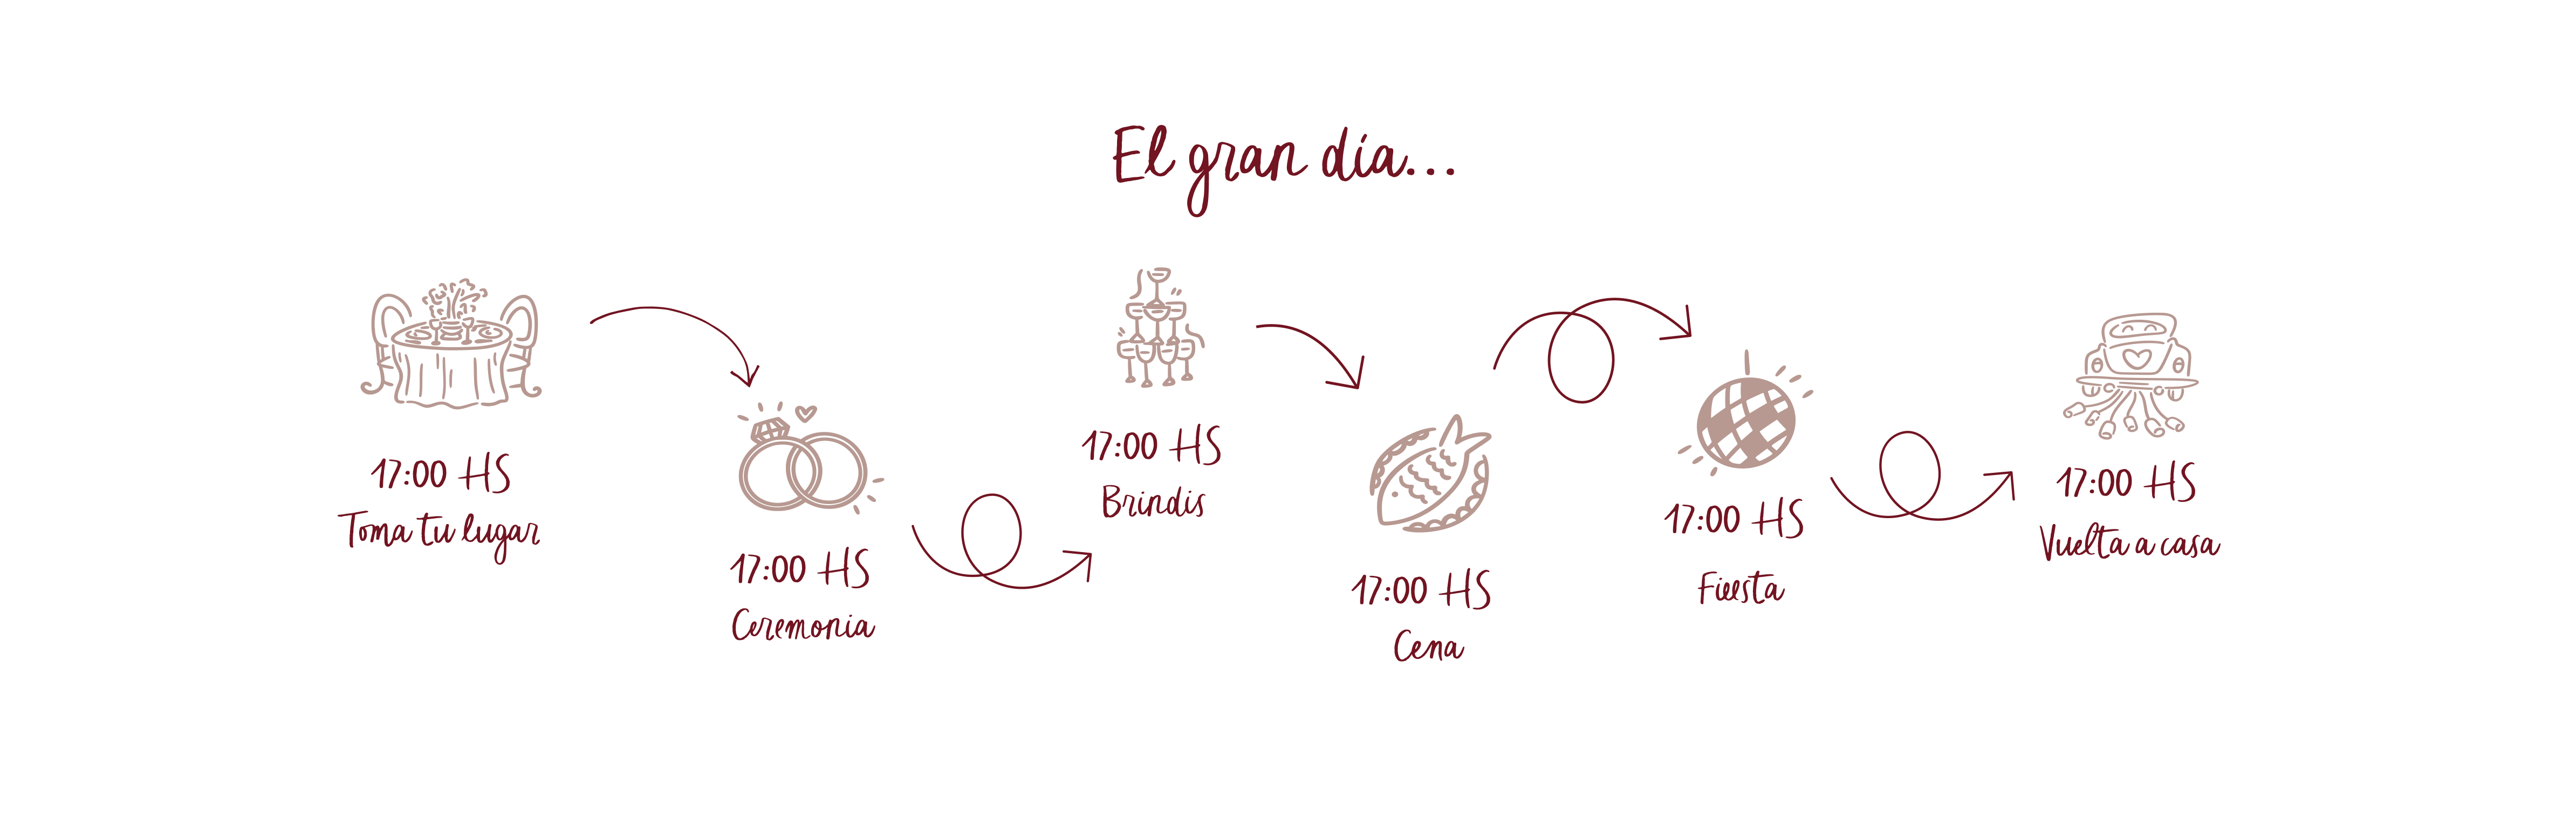
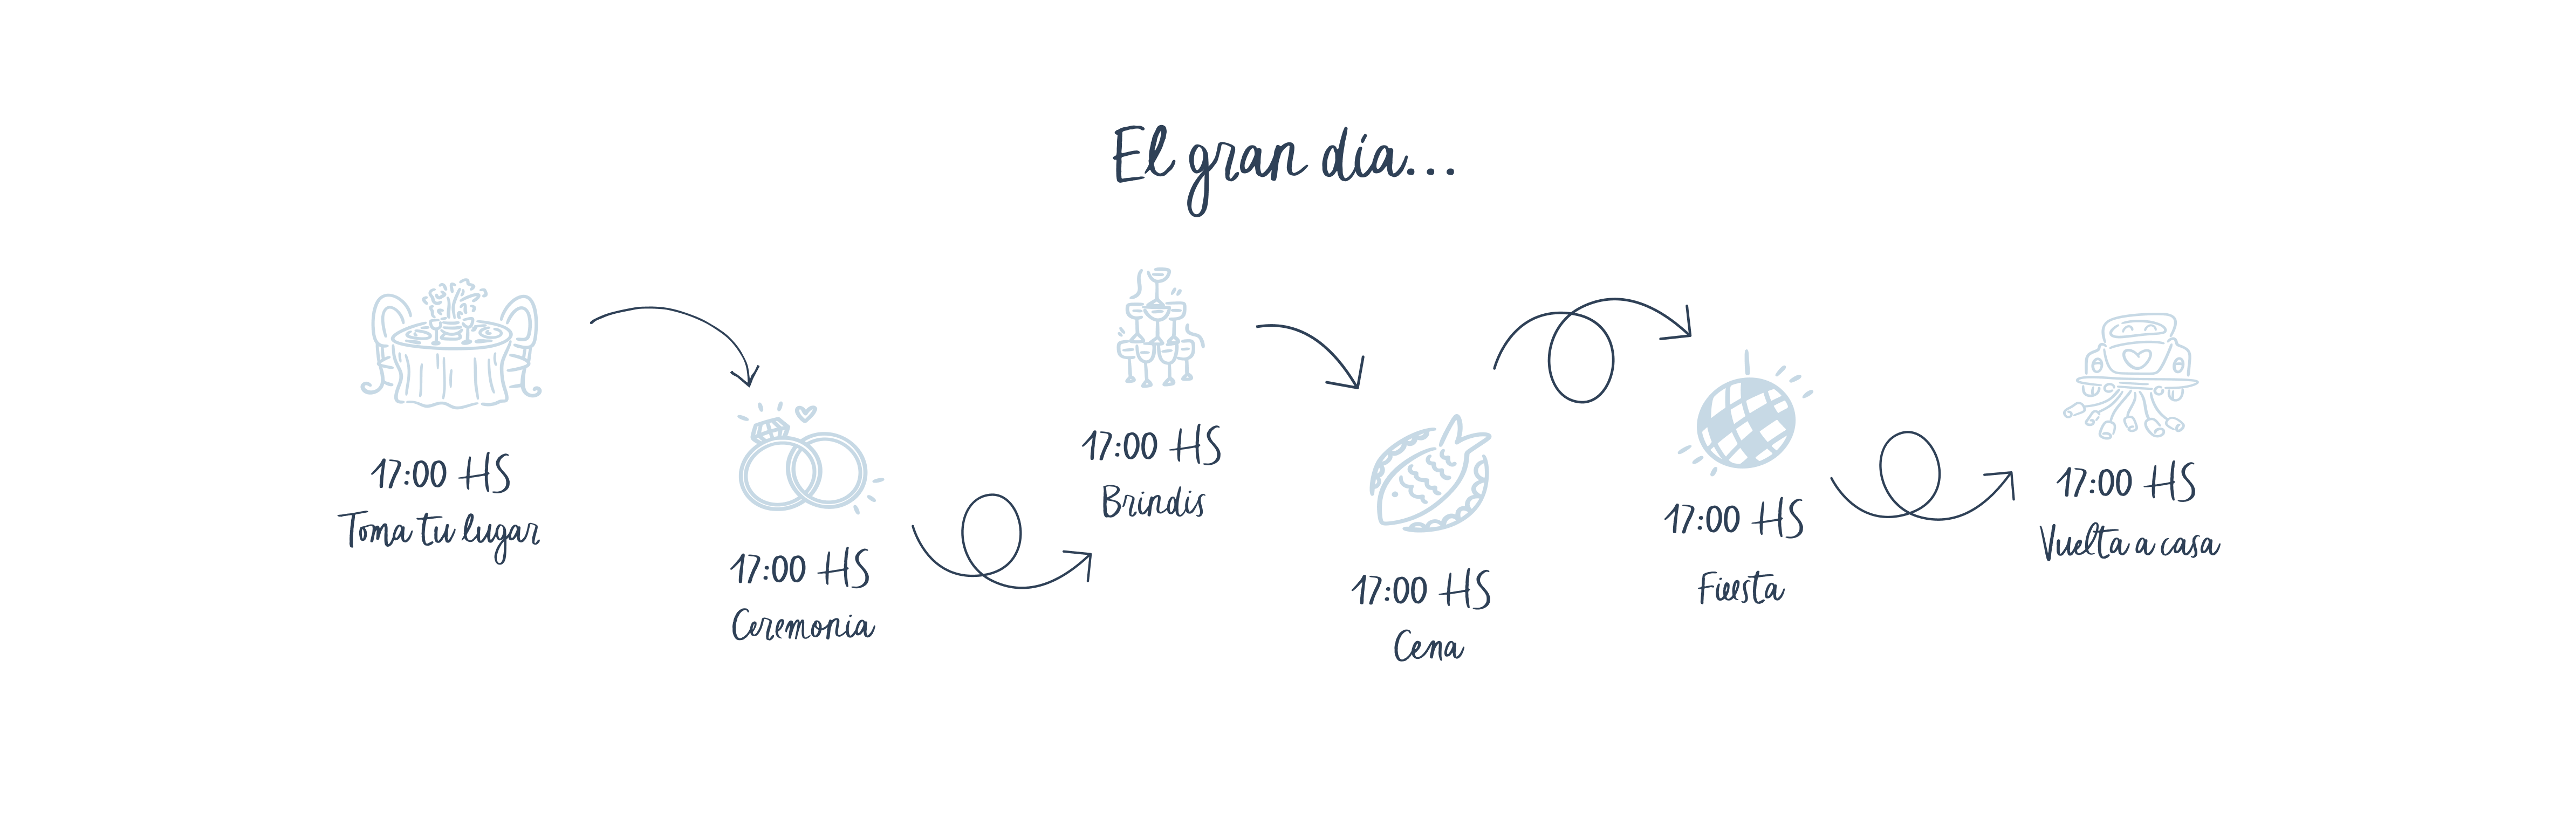
a
a

diff --git a/index.html b/index.html
@@ -60,9 +60,17 @@
     </div>
     <div class="datos">
       <div>
-        <p data-aos="fade-up">17:00 Hs - Santa Lucia, Pilar</p>
+        <p data-aos="fade-up">18:00 Hs - Catedral Nuestra Señora del Nahuel Huapi</p>
         <a data-aos="fade-up" class="boton"
-           href="https://www.google.com/maps/dir//Santa+Luc%C3%ADa+-+Eventos+Corporativos+y+Sociales,+KM+170,+RP6,+B6708+Pilar,+Provincia+de+Buenos+Aires/@-34.4378675,-59.0468113,749m/data=!3m1!1e3!4m17!1m7!3m6!1s0x95bb7e2ff2653dd9:0x802555d9783c01b2!2sSanta+Luc%C3%ADa+-+Eventos+Corporativos+y+Sociales!8m2!3d-34.4378675!4d-59.0468113!16s%2Fg%2F11bwh9wxwz!4m8!1m0!1m5!1m1!1s0x95bb7e2ff2653dd9:0x802555d9783c01b2!2m2!1d-59.0468113!2d-34.4378675!3e0?entry=ttu&g_ep=EgoyMDI2MDcwNi4wIKXMDSoASAFQAw%3D%3D">
+           href="https://www.google.com/maps?rlz=1C5BAPC_enAR1171AR1174&biw=1180&bih=769&sca_esv=acfa3fc4e5e17c13&output=search&q=catedral+de+bariloche&source=lnms&fbs=ABfTbFUDadgeu2mn4mYJ8iEZ1GUDhGSCZm7XyznrPTo9Hy_Q2uz8Xz4EW5JZiKHLKDFwhT6CR5poGF3Q_DFtAjJx_Odzcy2hoQmHqD8fpFq_45kz5VO5cr-_nbAMP2fm4biFdnLTik1fkVea7QPOpSZzp4ha_AD7Xxcp0FPGCVlSCA3AvHojrrD1-H8LAvxIucUH21-PA-KL1Wb1Tafj_yqoERzdDAV94w&entry=mc&ved=1t:200715&ictx=111">
+          Cómo llegar
+        </a>
+      </div>
+      <br><br>
+    <div>
+        <p data-aos="fade-up">20:00 Hs - Catedral Nuestra Señora del Nahuel Huapi</p>
+        <a data-aos="fade-up" class="boton"
+           href="https://www.google.com/maps?rlz=1C5BAPC_enAR1171AR1174&biw=1180&bih=769&sca_esv=acfa3fc4e5e17c13&output=search&q=catedral+de+bariloche&source=lnms&fbs=ABfTbFUDadgeu2mn4mYJ8iEZ1GUDhGSCZm7XyznrPTo9Hy_Q2uz8Xz4EW5JZiKHLKDFwhT6CR5poGF3Q_DFtAjJx_Odzcy2hoQmHqD8fpFq_45kz5VO5cr-_nbAMP2fm4biFdnLTik1fkVea7QPOpSZzp4ha_AD7Xxcp0FPGCVlSCA3AvHojrrD1-H8LAvxIucUH21-PA-KL1Wb1Tafj_yqoERzdDAV94w&entry=mc&ved=1t:200715&ictx=111">
           Cómo llegar
         </a>
       </div>
@@ -111,7 +119,7 @@
             <div class="boton2" onclick="copyToClipboard('aconfirmar')">COPIAR ALIAS</div>
           </div>
         </div>
-        <p>Titular de la cuenta: a confirmar</p>
+        <p>Titular de la cuenta: Lolo Perez/p>
       </div>
     </div>
 
@@ -128,7 +136,7 @@
       <div class="accordion-content">
       
         <p>SI HAY BODA, HAY JODA — Y LA JODA LA MOSTRAMOS EN INSTAGRAM. SEGUINOS PARA NO PERDERTE NADA DE LO QUE PASE ESE DÍA.</p>
-        <br> <a data-aos="fade-up" class="boton2" href="https://www.instagram.com/lauynacho.thewedding/">@lauynacho.thewedding</a>
+        <br> <a data-aos="fade-up" class="boton2" href="https://www.instagram.com/siquiero.arg/">@siquiero.arg</a>
         <br> <br>
     </div>
     </div>
@@ -209,37 +217,39 @@
     <div class="carrusel-slide" data-index="0">
     
       <div class="polaroid">
-        <img src="./img-editable/carrusel1.jpg" alt="">
+        <img src="./img-editable/carrusel1.png" alt="">
       </div>
-      <p>Hotel "Bahia" xxxx</p>
-      <a href="#" target="_blank" class="boton">Ver más</a>
-    </div>
+          <p>Para enamorarte del sur, tenes que conocer Isla Victoria</p>
+      <a href="https://www.google.com/maps/dir//Isla+Victoria,+Neuqu%C3%A9n/@-41.0380096,-71.5823286,11z/data=!4m9!4m8!1m0!1m5!1m1!1s0x9610988ac22f8885:0x5a6dc59459c5c38f!2m2!1d-71.5413889!2d-40.9416667!3e0?entry=ttu&g_ep=EgoyMDI2MDcwOC4wIKXMDSoASAFQAw%3D%3D" target="_blank" class="boton">Ver más</a>
+     </div>
  
     <div class="carrusel-slide" data-index="1">
       
       <div class="polaroid">
-        <img src="./img-editable/carrusel2.jpg" alt="">
+        <img src="./img-editable/carrusel2.png" alt="">
       </div>
-      <p>Nuestro primer viaje juntos.</p>
-      <a href="#" target="_blank" class="boton">Ver más</a>
-    </div>
+          <p>Para desperar con vista al lago, Hotel Tres Reyes</p>
+      <a href="https://www.google.com/maps/dir//Hotel+Tres+Reyes,+Av.+12+de+Octubre+135,+R8400+San+Carlos+de+Bariloche,+R%C3%ADo+Negro/@-41.1349743,-71.314059,15.85z/data=!4m20!1m10!3m9!1s0x961a7b72535761eb:0x644b8fe5b70e380!2sHotel+Tres+Reyes!5m2!4m1!1i2!8m2!3d-41.1327826!4d-71.3077661!16s%2Fg%2F1tjz4ky8!4m8!1m0!1m5!1m1!1s0x961a7b72535761eb:0x644b8fe5b70e380!2m2!1d-71.3077628!2d-41.1327674!3e0?entry=ttu&g_ep=EgoyMDI2MDcwOC4wIKXMDSoASAFQAw%3D%3D" target="_blank" class="boton">Ver más</a>
+     </div>
  
     <div class="carrusel-slide" data-index="2">
-     
+    
       <div class="polaroid">
-        <img src="./img-editable/carrusel3.jpg" alt="">
-      </div>
-      <p>Nuestro primer depto.</p>
-      <a href="#" target="_blank" class="boton">Ver más</a>
-    </div>
+        <img src="./img-editable/carrusel3.png" alt="">
+        </div>
+           <p>Para comer rico,La fonda del tio.</p>
+      <a href="https://www.google.com/maps/dir/La+Fonda+del+T%C3%ADo,+Mitre+1130,+R8400+San+Carlos+de+Bariloche,+R%C3%ADo+Negro/La+Fonda+del+T%C3%ADo,+Mitre+1130,+R8400+San+Carlos+de+Bariloche,+R%C3%ADo+Negro/@-41.1329593,-71.3210199,14.27z/data=!4m14!4m13!1m5!1m1!1s0x961a7b6487a6fb65:0x3545df890f220cc6!2m2!1d-71.2936588!2d-41.1351412!1m5!1m1!1s0x961a7b6487a6fb65:0x3545df890f220cc6!2m2!1d-71.2936588!2d-41.1351412!3e0?entry=ttu&g_ep=EgoyMDI2MDcwOC4wIKXMDSoASAFQAw%3D%3D" target="_blank" class="boton">Ver más</a>
+ 
+
+   </div>
  
     <div class="carrusel-slide" data-index="3">
      
       <div class="polaroid">
-        <img src="./img-editable/carrusel4.jpg" alt="">
+        <img src="./img-editable/carrusel4.png" alt="">
       </div>
-      <p>Y acá estamos.</p>
-      <a href="#" target="_blank" class="boton">Ver más</a>
+      <p>Prepara el mate y recorre la Ruta de los 7 lagos.</p>
+      <a href="https://www.google.com/maps/dir//Ruta+de+Los+Siete+Lagos,+RN40,+Q8370+San+Mart%C3%ADn+de+los+Andes,+Neuqu%C3%A9n/@-41.0611775,-71.2150129,13.34z/data=!4m9!4m8!1m0!1m5!1m1!1s0x960a33d1d16befb5:0xf600ed94a1c3d5af!2m2!1d-71.3564979!2d-40.1643295!3e0?entry=ttu&g_ep=EgoyMDI2MDcwOC4wIKXMDSoASAFQAw%3D%3D" target="_blank" class="boton">Ver más</a>
     </div>
  
   </div>
@@ -265,7 +275,7 @@
     <div class="icono7">
       <div data-aos="fade-down" class="icon-svg7" role="img" aria-label="Ícono decorativo"></div>
     </div>
-    <h2 data-aos="fade-up">Lau y Nacho</h2>
+    <h2 data-aos="fade-up">Lolo & Maca</h2>
     <p data-aos="fade-down">Te esperamos</p>
   </div>
 

diff --git a/style.css b/style.css
@@ -1,9 +1,9 @@
 :root {
     --color-0: #ffffff;
     --color-1: #000000;
-    --color-2: #721421;
+    --color-2: #2F4157;
     --color-3: #104B9C;
-    --color-4: #B79992;
+    --color-4: #C7D9E5;
     --font-principal: 'MiFuente';
     --font-secundaria:  "Inter", sans-serif;
     --font-terciaria: 'MiFuente2';